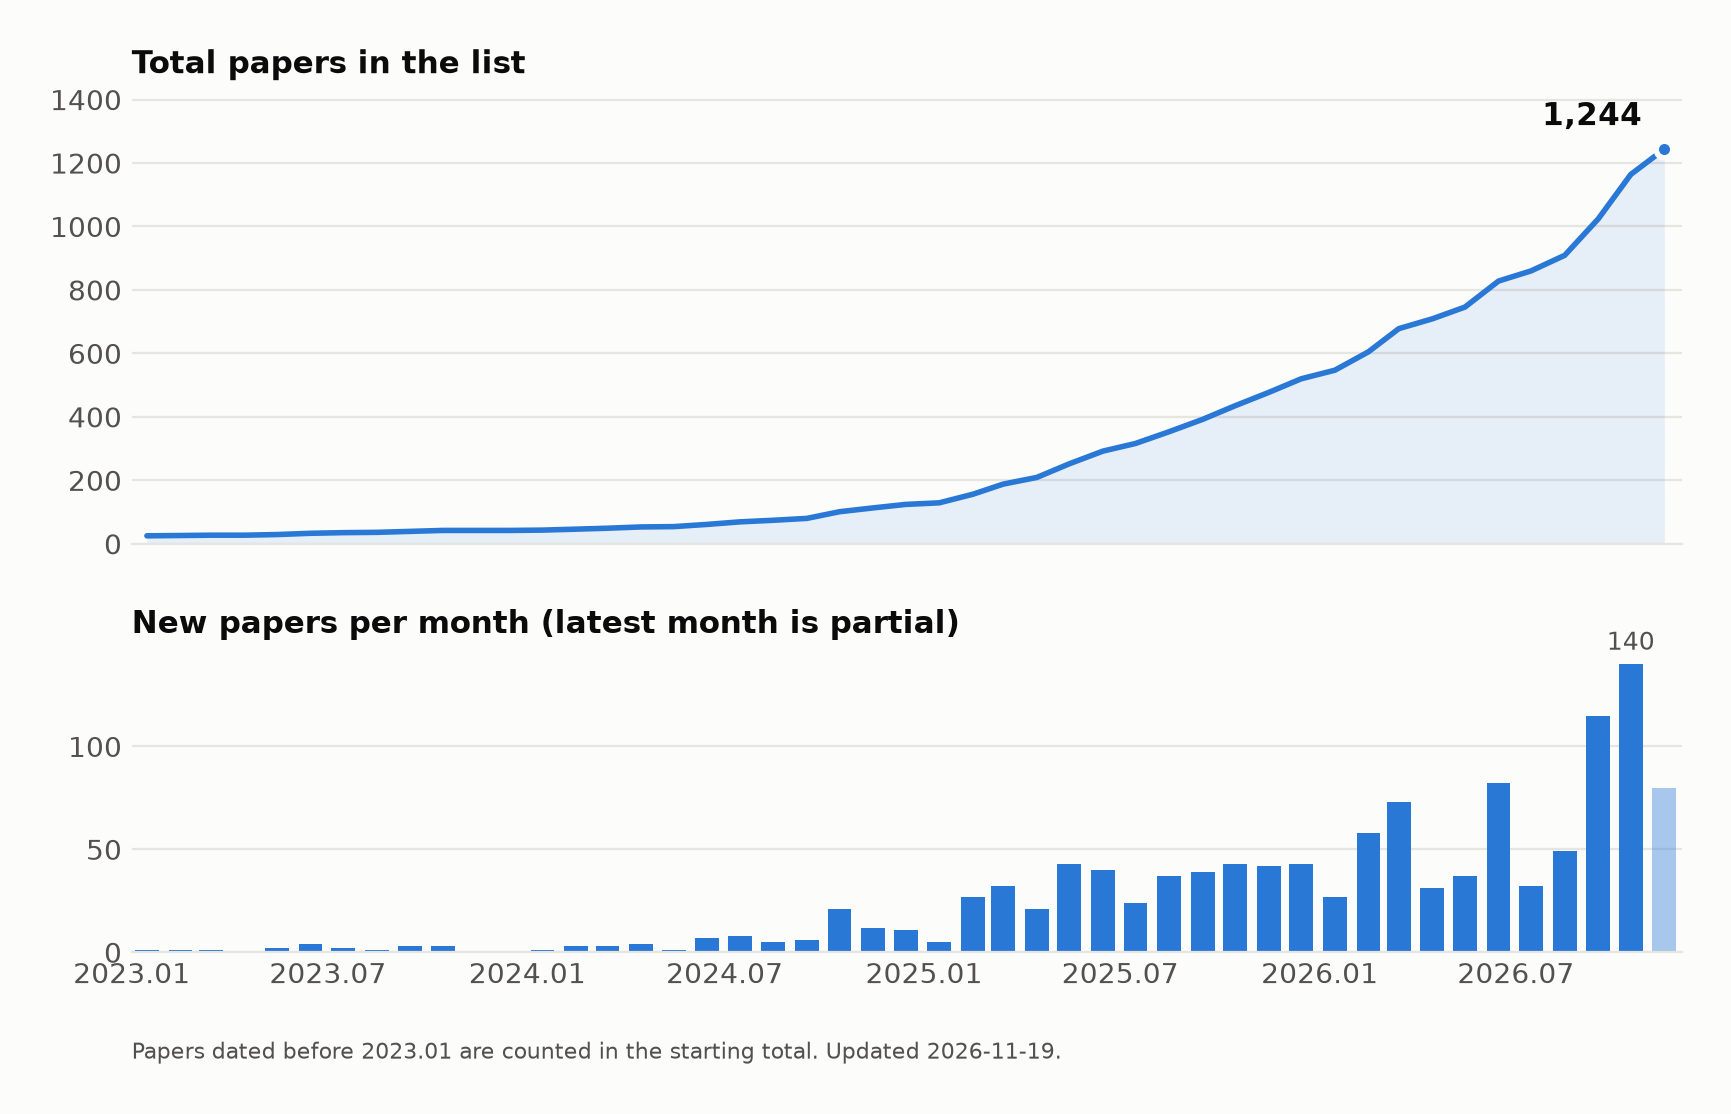
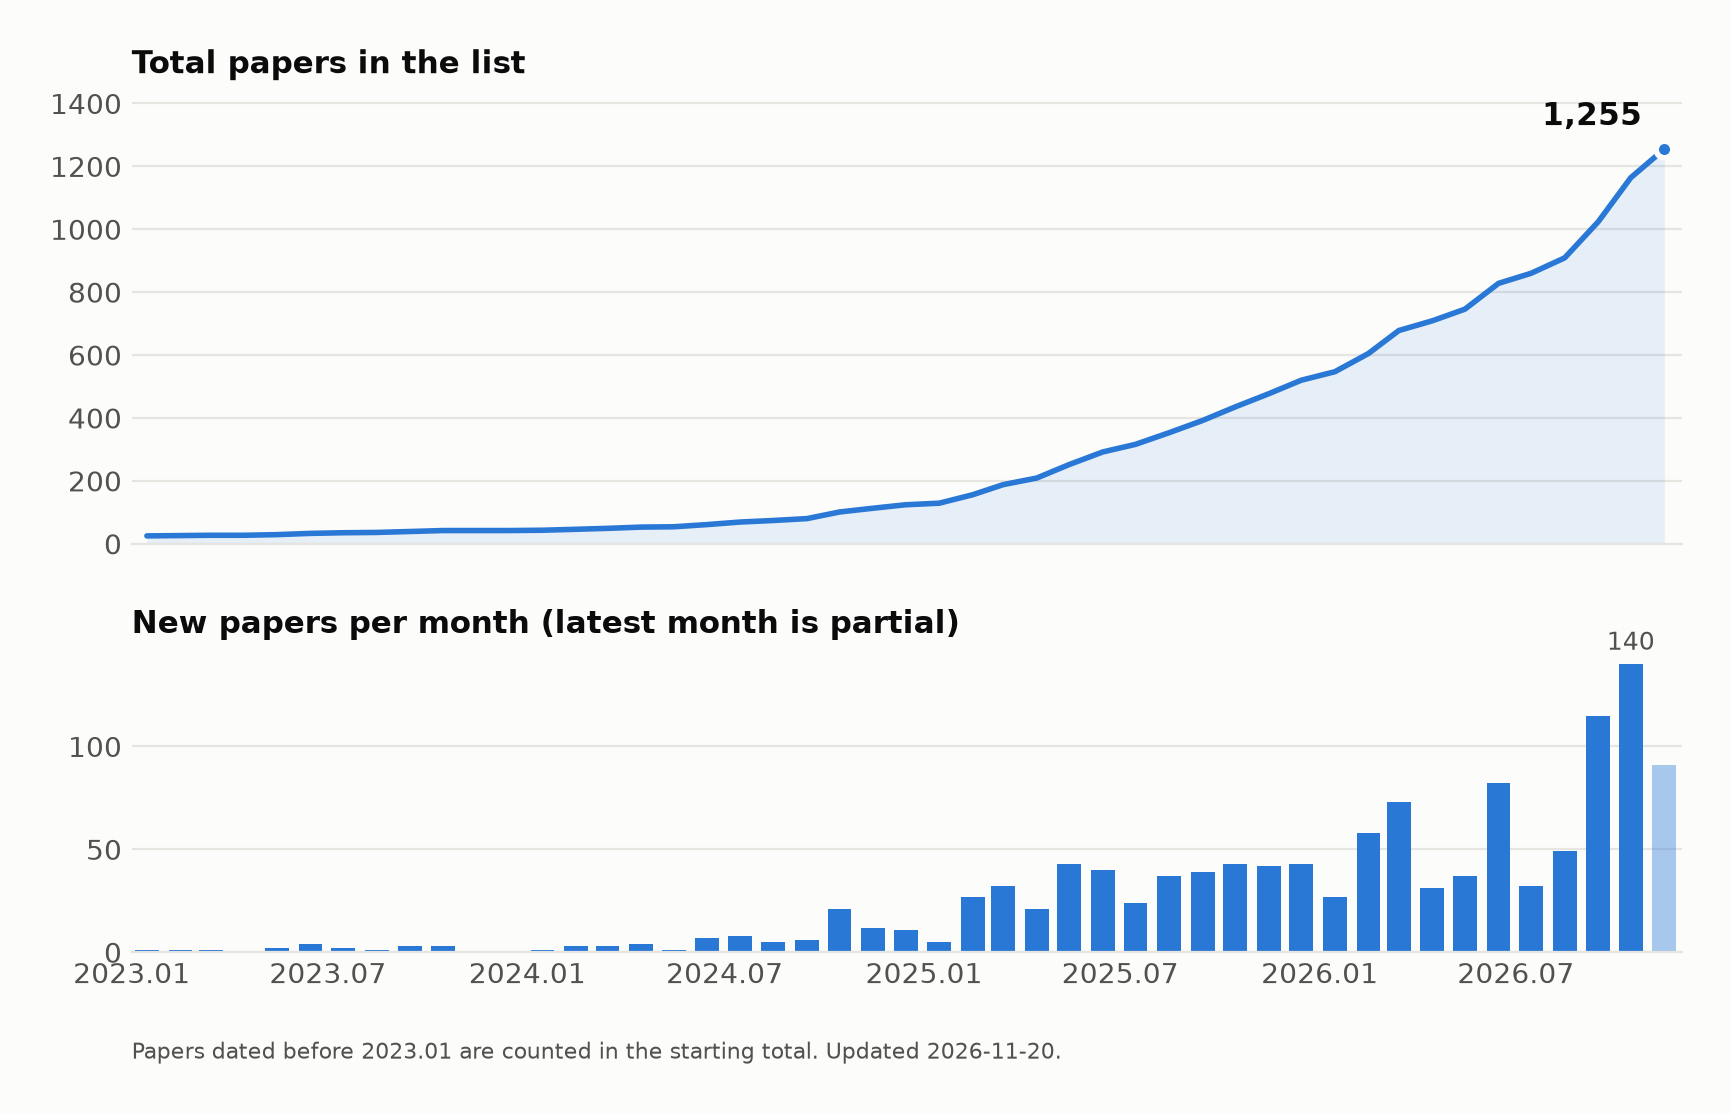
Add 11 papers from arXiv (2026-11-20)

diff --git a/README.md b/README.md
@@ -31,6 +31,10 @@ Feel free to pull a request for new papers/codes about humanoid robot learning.
 - [CoRL 2026.11](https://openreview.net/forum?id=93leGzRaPV), InfiniDanceRobot: A Streaming and Closed-Loop Music-driven Dance Generation for Humanoid Robot
 - [CoRL 2026.11](https://openreview.net/forum?id=qF26obIUEX), EVOLVE: Egocentric Vision-based Humanoid Loco-Manipulation via Demonstration Editing
 - [CoRL 2026.11](https://openreview.net/forum?id=wALhOwQWnx), Learning Functional Compliance in Whole-body Manipulation
+- [arXiv 2026.11.19](https://arxiv.org/abs/2611.26596), PGX: Physically Grounded Execution for Long-Horizon Humanoid Loco-Manipulation, [website](https://kl-research.github.io/pgx)
+- [arXiv 2026.11.19](https://arxiv.org/abs/2611.26420), Awaken-HI: Scaling Humanoid Intelligence with Whole-Body Human Experience, [website](https://engineai-robotics.github.io/Awaken-HI), [code](https://github.com/engineai-robotics/Awaken-HI)
+- [arXiv 2026.11.19](https://arxiv.org/abs/2611.25778), ECHO: In-Context Behavior foundation model for Humanoid Whole-Body Control, [website](https://mwondering.github.io/echo-bfm/)
+- [arXiv 2026.11.18](https://arxiv.org/abs/2611.25251), WEVO: World Model-Enabled VLA Optimization for Whole-Body Loco-Manipulation, [website](https://qianzhong-chen.github.io/wevo.github.io/)
 - [arXiv 2026.11.18](https://arxiv.org/abs/2611.24074), SemPhys: Semantic-Physical Co-Learning for Humanoid Motion Generation via Differentiable World Models
 - [arXiv 2026.11.17](https://arxiv.org/abs/2611.22713), Body Schema Policy: Body as the Vision-Action Interface for Efficient Robot Loco-Manipulation
 - [arXiv 2026.11.17](https://arxiv.org/abs/2611.22275), Heave-Ho: Decentralized Long-Horizon Multi-Humanoid Collaboration, [website](https://heaveho-humanoid.github.io/)
@@ -739,6 +743,8 @@ Feel free to pull a request for new papers/codes about humanoid robot learning.
 
 
 ## Locomotion
+- 🌟[arXiv 2026.11.19](https://arxiv.org/abs/2611.26074), Controlling the Humanoid Robot H1-2 With a Simulated Biologically Plausible Network, [code](https://github.com/fatima-at/Bio_SNN_h12)
+- [arXiv 2026.11.19](https://arxiv.org/abs/2611.26054), Reference-Free Humanoid Skateboarding via Termination-Shaped Reinforcement Learning, Humanoids 2026
 - [arXiv 2026.11.18](https://arxiv.org/abs/2611.23916), ReLoco: Unified Humanoid Locomotion and Fall Recovery via Behavior-Conditioned Motion Priors
 - [arXiv 2026.11.17](https://arxiv.org/abs/2611.22445), Autonomous Track Racing with a Commercially Available Humanoid: System Design and Real-World Deployment
 - [arXiv 2026.11.16](https://arxiv.org/abs/2611.20888), Driving the Style: Velocity-Conditioned Whole-Body Control from Motion Demonstrations
@@ -1139,6 +1145,8 @@ Feel free to pull a request for new papers/codes about humanoid robot learning.
 - [TRO 2017](https://ieeexplore.ieee.org/document/7827048), Proprioceptive actuator design in the MIT Cheetah: Impact mitigation and high‑bandwidth physical interaction for dynamic legged robots
 
 ## Simulation Benchmark
+- [arXiv 2026.11.19](https://arxiv.org/abs/2611.26565), PhyDEX: A Benchmark for Physical Reasoning in Vision-Language-Action Models via Dynamic Extrinsic Dexterity
+- 🌟[arXiv 2026.11.19](https://arxiv.org/abs/2611.26293), LocoMuJoCo: A Comprehensive Imitation Learning Benchmark for Whole-Body Control, [code](https://github.com/robfiras/loco-mujoco)
 - 🌟[arXiv 2026.11.11](https://arxiv.org/abs/2611.15112), Elastra: A Simulation Framework for Elastic Bodies, [code](https://github.com/yichg/elastra)
 - [arXiv 2026.11](https://arxiv.org/abs/2611.10994), RoboMoCap: A Large-Scale Whole-Body Motion Capture Dataset with Egocentric Vision for Robot Learning, [website](https://bitrobot-foundation.github.io/robomocap/)
 - [arXiv 2026.10](https://arxiv.org/abs/2610.30876), LocoManiLab: A Unified Testbed for Data, Policies, Controllers, and Deployment in Humanoid Loco-Manipulation
@@ -1194,7 +1202,7 @@ Feel free to pull a request for new papers/codes about humanoid robot learning.
 - arXiv 2024.12, **Genesis**: A Generative and Universal Physics Engine for Robotics and Beyond, [code](https://github.com/Genesis-Embodied-AI/Genesis) / [website](https://genesis-embodied-ai.github.io/)
 
 ## Physics-Based Character Animation
-- [SIGGRAPH 2010](https://dl.acm.org/doi/abs/10.1145/1833349.1778770?casa_token=j3esx-hx0GAAAAAA:OvRU6YYrNo2ZP9IyXGVDryWJqHmvU-oVhnzog8RFKKySQJjganzaAmHff6CQ4a0qzfJZu-J6Buf4Ug), Spatial relationship preserving character motion adaptation
+- [arXiv 2026.11.19](https://arxiv.org/abs/2611.26218), MixReact: Physics-Based Reactive Humanoid Control from Multimodal Cues via a Discrete-Continuous Mixture of Transformers, [website](https://binlee26.github.io/MixReact_Page/)
 - [arXiv 2026.11.18](https://arxiv.org/abs/2611.23825), Learning Martial Arts Motion Skills for Animating Opponents in VR Sparring Games
 - [arXiv 2026.11.14](https://arxiv.org/abs/2611.19153), ImpedanceMimic: Learned Impedance as Action Space for Force-Accurate Motion Imitation, [website](https://impedancemimic.github.io/ImpedanceMimic/)
 - [CoRL 2026](https://arxiv.org/abs/2610.18147), Walk Like This: Stylized Locomotion for Physics-Based Characters through Example-Driven Diffusion
@@ -1279,7 +1287,10 @@ Feel free to pull a request for new papers/codes about humanoid robot learning.
 
 
 
+- [SIGGRAPH 2010](https://dl.acm.org/doi/abs/10.1145/1833349.1778770?casa_token=j3esx-hx0GAAAAAA:OvRU6YYrNo2ZP9IyXGVDryWJqHmvU-oVhnzog8RFKKySQJjganzaAmHff6CQ4a0qzfJZu-J6Buf4Ug), Spatial relationship preserving character motion adaptation
 ## Human Motion Analysis and Synthesis
+- 🌟[arXiv 2026.11.19](https://arxiv.org/abs/2611.25801), Fast and Accurate Body Estimation in Pixels, World Space and Scenes, [website](https://www.jinkuncao.com/FAB), [code](https://github.com/noahcao/FAB)
+- [arXiv 2026.11.18](https://arxiv.org/abs/2611.25005), Inhabitant: An Agent Framework for Long-Horizon Human-Scene Interaction with Spatial Control and Quantitative Feedback, [website](https://ryenhails.github.io/Inhabitant/)
 - [arXiv 2026.11.11](https://arxiv.org/abs/2611.15101), CFGComposer: Compositional Audio-Text-to-Motion Generation via Copula Score Correction
 - [arXiv 2026.10](https://arxiv.org/abs/2610.30500), PhysibleMDM: Enforcing Inference-Time Physical Feasibility Constraints on Motion Diffusion Models via Noise Optimization
 - [arXiv 2026.10](https://arxiv.org/abs/2610.21515), TRACE: Typed Reference-Aware Conversational Editing for Humanoid Motion Diffusion
